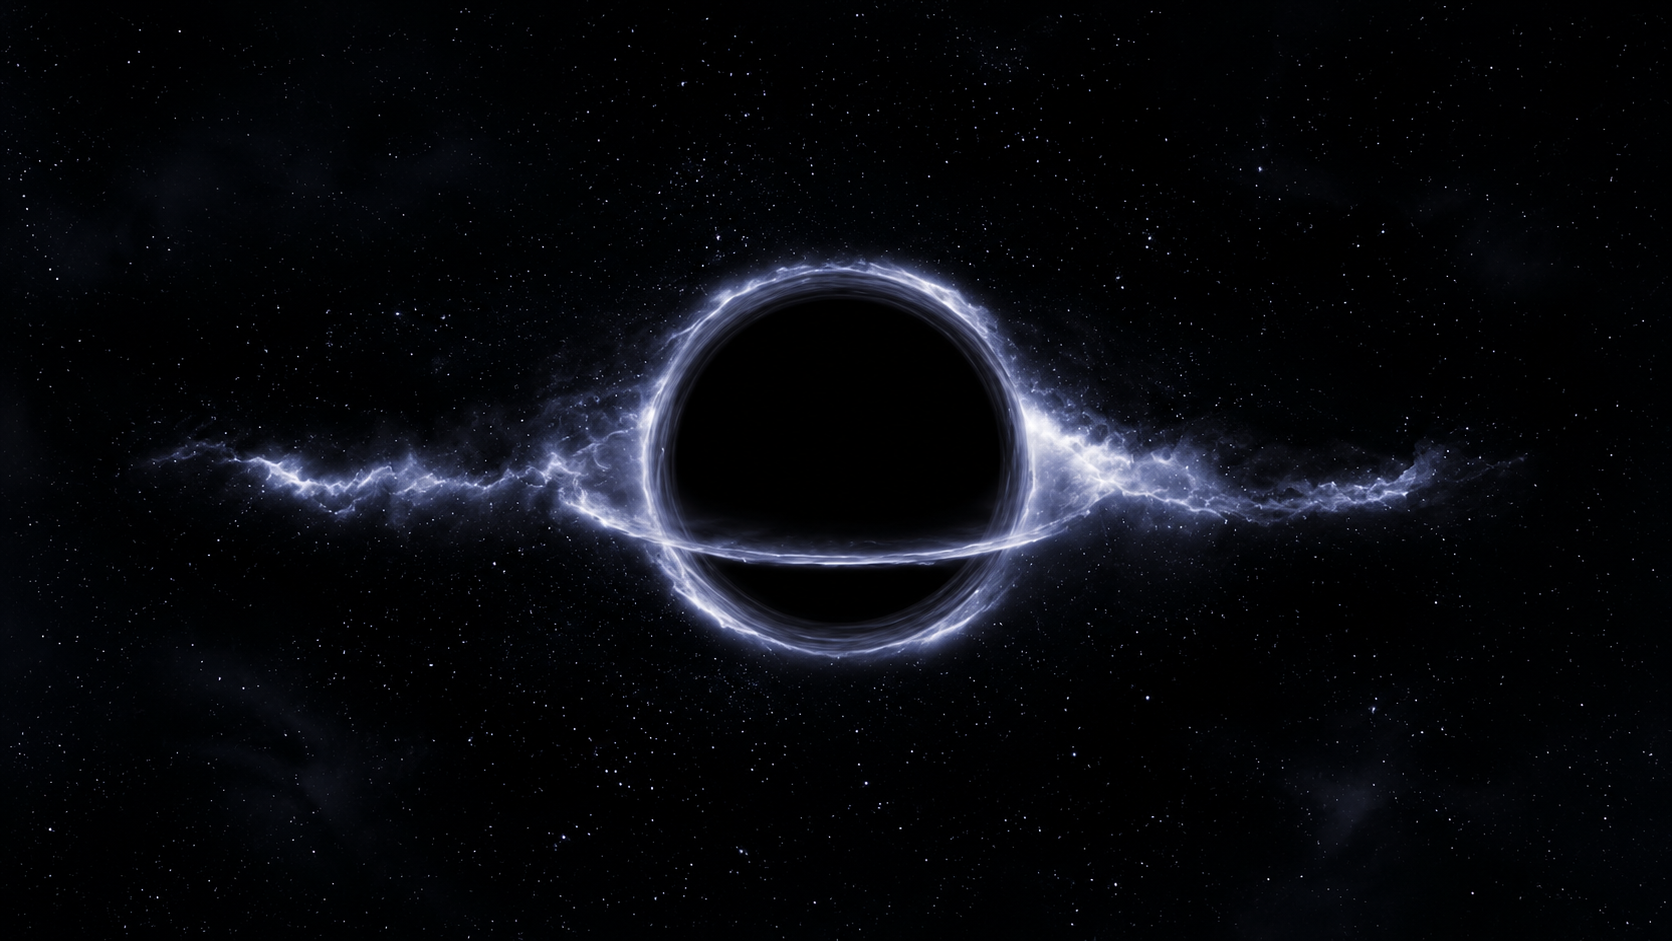
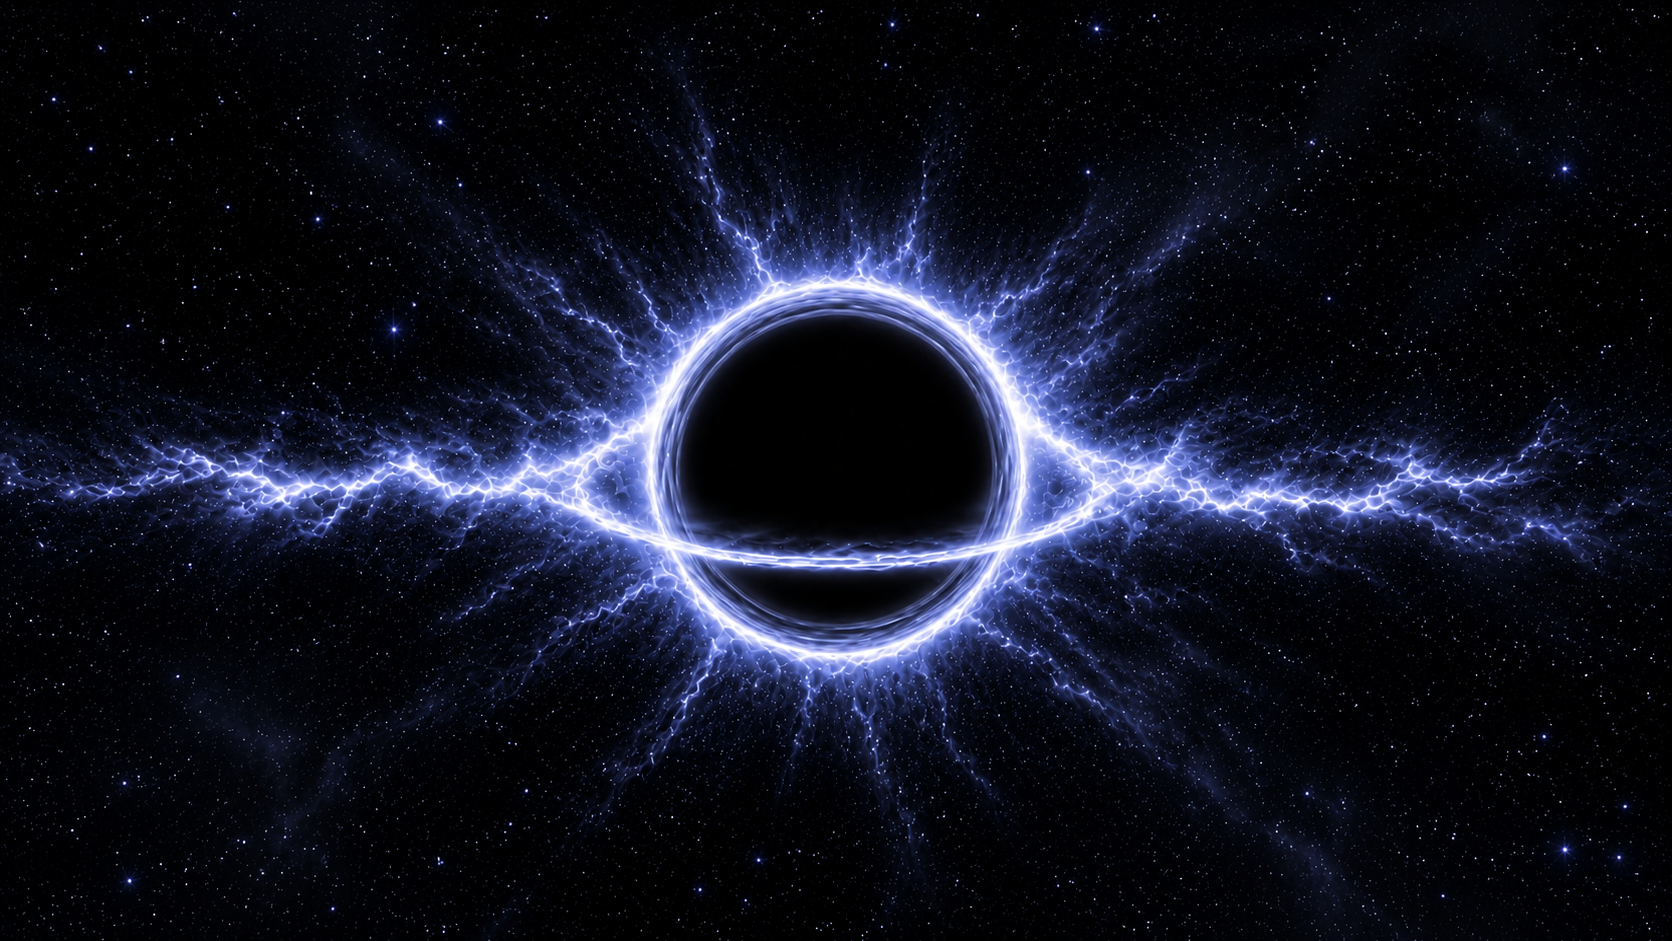
bg melhorado

diff --git a/src/renderer/src/components/ParticlesEffect/index.jsx b/src/renderer/src/components/ParticlesEffect/index.jsx
@@ -35,10 +35,9 @@ export function ParticlesEffect() {
 
   useEffect(() => {
     const container = containerRef.current;
-    // 🔥 NÃO bloqueia mais a criação da cena se analyser for nulo
     if (!container) return;
 
-    // ----- 1. SETUP THREE.JS (partículas 3D de fundo) -----
+    // ========== 1. CENA DE PARTÍCULAS 3D ==========
     const scene = new THREE.Scene();
     const camera = new THREE.PerspectiveCamera(
       75,
@@ -52,15 +51,16 @@ export function ParticlesEffect() {
     renderer.setSize(container.clientWidth, container.clientHeight);
     renderer.setPixelRatio(Math.min(window.devicePixelRatio, 2));
     renderer.setClearColor(0x000000, 0);
-    container.innerHTML = "";
+    renderer.domElement.style.position = "absolute";
+    renderer.domElement.style.top = "0";
+    renderer.domElement.style.left = "0";
+    renderer.domElement.style.zIndex = "1";
     container.appendChild(renderer.domElement);
 
-    // Partículas (4000 pontos)
     const COUNT = 4000;
     const geometry = new THREE.BufferGeometry();
     const positions = new Float32Array(COUNT * 3);
     const basePositions = new Float32Array(COUNT * 3);
-
     for (let i = 0; i < COUNT; i++) {
       const i3 = i * 3;
       positions[i3] = basePositions[i3] = (Math.random() - 0.5) * 25;
@@ -68,7 +68,6 @@ export function ParticlesEffect() {
       positions[i3 + 2] = basePositions[i3 + 2] = Math.random() * -100;
     }
     geometry.setAttribute("position", new THREE.BufferAttribute(positions, 3));
-
     const particleMaterial = new THREE.PointsMaterial({
       color: 0xffffff,
       size: 0.25,
@@ -76,12 +75,11 @@ export function ParticlesEffect() {
       transparent: true,
       blending: THREE.AdditiveBlending,
       depthWrite: false,
-      opacity: 1,
     });
     const particles = new THREE.Points(geometry, particleMaterial);
     scene.add(particles);
 
-    // ----- 2. LÓGICA DE ÁUDIO – AGORA PROTEGIDA -----
+    // ========== 2. ÁUDIO + DETECTOR DE BATIDAS ==========
     const analyser = analyserRef.current;
     let dataArray = null;
     if (analyser) {
@@ -89,8 +87,14 @@ export function ParticlesEffect() {
       dataArray = new Uint8Array(analyser.frequencyBinCount);
     }
     let smoothedBass = 0;
+    let smoothedMid = 0;
+    let lastMidDiff = 0;        // Guarda a diferença do frame anterior
+    let beatThreshold = 0.12;   // Limiar ajustável (sensibilidade da batida)
 
-    // ----- 3. OVERLAY 2D (círculo + barras radiais) -----
+    const waves = [];
+    let lastWaveSpawn = 0;
+
+    // ========== 3. OVERLAY 2D ==========
     const overlayCanvas = overlayCanvasRef.current;
     const ctx = overlayCanvas.getContext("2d");
     overlayCanvas.style.position = "absolute";
@@ -99,7 +103,7 @@ export function ParticlesEffect() {
     overlayCanvas.style.width = "100%";
     overlayCanvas.style.height = "100%";
     overlayCanvas.style.pointerEvents = "none";
-    container.style.position = "relative";
+    overlayCanvas.style.zIndex = "2";
     container.appendChild(overlayCanvas);
 
     const BAR_COUNT = 200;
@@ -117,24 +121,40 @@ export function ParticlesEffect() {
     const resizeObserver = new ResizeObserver(resizeOverlay);
     resizeObserver.observe(container);
 
-    // ----- 4. LOOP DE ANIMAÇÃO (seguro) -----
-    let threeAnimationId;
+    // ========== 4. LOOP DE ANIMAÇÃO ==========
+    let animationId;
 
     const animate = () => {
-      threeAnimationId = requestAnimationFrame(animate);
+      animationId = requestAnimationFrame(animate);
 
-      // --- Atualiza o grave suavizado (se houver analyser) ---
+      // Processa áudio
       let bass = 0;
+      let mid = 0;
       if (analyser && dataArray) {
         analyser.getByteFrequencyData(dataArray);
+        // Graves (0-39)
         for (let i = 0; i < 40; i++) bass += dataArray[i];
         bass = bass / 40 / 255;
+        // Médios (faixa que contém batidas de caixa e ataque de kicks médios)
+        let midCount = 0;
+        for (let i = 30; i <= 80 && i < dataArray.length; i++) {
+          mid += dataArray[i];
+          midCount++;
+        }
+        mid = mid / midCount / 255;
       }
       smoothedBass = smoothedBass * 0.82 + bass * 0.18;
+      smoothedMid = smoothedMid * 0.85 + mid * 0.15;
+
+      // --- DETECTOR DE BATIDAS (diferença brusca) ---
+      const midDiff = mid - smoothedMid;        // diferença entre o atual e o suavizado
+      const isBeat = (midDiff > beatThreshold && midDiff > lastMidDiff * 0.8);
+      lastMidDiff = midDiff;
+
       const force = smoothedBass * 5;
       const time = performance.now() * 0.001;
 
-      // --- Atualiza as partículas 3D (sempre rodam, mas com força do áudio) ---
+      // --- Partículas 3D (mantido) ---
       const posAttr = geometry.attributes.position.array;
       for (let i = 0; i < COUNT; i++) {
         const i3 = i * 3;
@@ -144,14 +164,12 @@ export function ParticlesEffect() {
         posAttr[i3 + 1] = basePositions[i3 + 1] + Math.cos(time + i * 0.06) * force;
       }
       geometry.attributes.position.needsUpdate = true;
-
       particleMaterial.size = 0.15 + smoothedBass * 0.2;
       particleMaterial.opacity = 0.5 + smoothedBass * 1.5;
       camera.position.z = 5 - smoothedBass * 0.7;
-
       renderer.render(scene, camera);
 
-      // --- Desenha o overlay 2D (sempre desenha, mas com dados do áudio ou zero) ---
+      // --- Desenho do overlay ---
       const w = overlayCanvas.width;
       const h = overlayCanvas.height;
       const centerX = w / 2;
@@ -160,19 +178,84 @@ export function ParticlesEffect() {
 
       ctx.clearRect(0, 0, w, h);
 
-      // Círculo com pulso (usa smoothedBass, que pode ser 0 se não houver áudio)
-      const circleScale = 1 + smoothedBass * 0.3;
-      const circleRadius = circleBaseRadius * circleScale;
+      // ========== SPAWN DE ONDAS (SOMENTE NAS BATIDAS) ==========
+      const now = performance.now();
+      if (isBeat) {
+        // Usa a intensidade da batida (midDiff) para modular os parâmetros
+        const beatStrength = Math.min(0.8, midDiff * 1.5);
+        // Evita spawn excessivo com um cooldown mínimo de 100ms
+        if (now - lastWaveSpawn > 100) {
+          waves.push({
+            r: circleBaseRadius,
+            opacity: 0.8 + beatStrength * 0.3,
+            speed: 1.5 + beatStrength * 4,
+            bass: beatStrength,      // guarda a força da batida
+            seed: Math.random() * 100,
+          });
+          lastWaveSpawn = now;
+        }
+      }
 
-      // Anéis decorativos (sempre desenha)
+      // ========== DESENHO DAS ONDAS (mesmo estilo, usando a força da batida) ==========
+      ctx.globalCompositeOperation = "lighter";
+
+      for (let i = waves.length - 1; i >= 0; i--) {
+        const wave = waves[i];
+        wave.r += wave.speed;
+        wave.opacity *= 0.94;
+
+        if (wave.opacity < 0.015) {
+          waves.splice(i, 1);
+          continue;
+        }
+
+        const maxR = circleBaseRadius * 4;
+        const progress = (wave.r - circleBaseRadius) / (maxR - circleBaseRadius);
+        const alpha = wave.opacity * (1 - progress * 0.5);
+
+        ctx.beginPath();
+        const points = 80;
+        for (let j = 0; j <= points; j++) {
+          const angle = (j / points) * Math.PI * 2;
+          const noise =
+            Math.sin(angle * 7 + time * 4 + wave.seed) * (18 * wave.bass) +
+            Math.cos(angle * 4 - time * 2 + wave.seed) * (8 * (1 - progress));
+          const currentRadius = wave.r + noise;
+          const x = centerX + Math.cos(angle) * currentRadius;
+          const y = centerY + Math.sin(angle) * currentRadius;
+          if (j === 0) ctx.moveTo(x, y);
+          else ctx.lineTo(x, y);
+        }
+        ctx.closePath();
+
+        const thickness = (25 + wave.bass * 40) * (1 - progress);
+        ctx.lineWidth = thickness;
+        ctx.strokeStyle = `rgba(100, 150, 255, ${alpha * 0.15})`;
+        ctx.shadowBlur = 40;
+        ctx.shadowColor = `rgba(140, 200, 255, ${alpha})`;
+        ctx.stroke();
+
+        ctx.lineWidth = 2 + wave.bass * 6;
+        ctx.strokeStyle = `rgba(220, 240, 255, ${alpha * 0.8})`;
+        ctx.shadowBlur = 15;
+        ctx.shadowColor = "#ffffff";
+        ctx.stroke();
+      }
+
+      ctx.globalCompositeOperation = "source-over";
+      ctx.shadowBlur = 0;
+
+      // ========== ANÉIS DECORATIVOS (reações aos graves, mantido) ==========
       for (let j = 0; j < 4; j++) {
         ctx.beginPath();
         const points = 120;
         for (let i = 0; i <= points; i++) {
           const a = (i / points) * Math.PI * 2;
-          const noise = Math.sin(a * 6 + time * 1.5 + j) * 8 +
-                        Math.cos(a * 4 - time * 1.2 + j) * 6;
-          const radius = circleRadius * (0.55 + j * 0.12) + noise + smoothedBass * 18;
+          const noise =
+            Math.sin(a * 6 + time * 1.5 + j) * 8 +
+            Math.cos(a * 4 - time * 1.2 + j) * 6;
+          const radius =
+            circleBaseRadius * (0.55 + j * 0.12) + noise + smoothedBass * 18;
           const x = centerX + Math.cos(a) * radius;
           const y = centerY + Math.sin(a) * radius;
           if (i === 0) ctx.moveTo(x, y);
@@ -186,35 +269,41 @@ export function ParticlesEffect() {
         ctx.stroke();
       }
 
-      // Gradiente do núcleo
-      const coreGradient = ctx.createRadialGradient(centerX, centerY, 0, centerX, centerY, circleRadius);
+      // ========== ESFERA CENTRAL ==========
+      const coreGradient = ctx.createRadialGradient(
+        centerX,
+        centerY,
+        0,
+        centerX,
+        centerY,
+        circleBaseRadius,
+      );
       coreGradient.addColorStop(0, "rgba(255,255,255,1)");
       coreGradient.addColorStop(0.1, "rgba(255,255,255,0.95)");
       coreGradient.addColorStop(0.25, "rgba(180,220,255,0.9)");
       coreGradient.addColorStop(0.5, "rgba(100,140,255,0.3)");
       coreGradient.addColorStop(1, "rgba(0,0,0,0)");
       ctx.beginPath();
-      ctx.arc(centerX, centerY, circleRadius * 0.7, 0, Math.PI * 2);
+      ctx.arc(centerX, centerY, circleBaseRadius * 0.7, 0, Math.PI * 2);
       ctx.fillStyle = coreGradient;
       ctx.fill();
 
-      // Barras radiais (protegidas: se não houver dataArray, usa smoothedHeights zerados)
+      // ========== BARRAS RADIAIS ==========
       ctx.shadowBlur = 12;
-      ctx.shadowColor = '#ffffffff';
+      ctx.shadowColor = "#ffffffff";
       for (let i = 0; i < BAR_COUNT; i++) {
         let targetHeight = 0;
         if (dataArray) {
           const freqIndex = Math.floor((i / BAR_COUNT) * maxFreqIndex);
-          const rawValue = dataArray[freqIndex] || 0;
-          targetHeight = (rawValue / 255) * 40;
+          targetHeight = ((dataArray[freqIndex] || 0) / 255) * 40;
         }
-        smoothedHeights[i] = smoothedHeights[i] * smoothing + targetHeight * (1 - smoothing);
+        smoothedHeights[i] =
+          smoothedHeights[i] * smoothing + targetHeight * (1 - smoothing);
         const barHeight = Math.max(4, smoothedHeights[i]);
 
         const angle = (i / BAR_COUNT) * Math.PI * 2 - Math.PI / 2;
         const innerR = circleBaseRadius + 10;
         const outerR = innerR + barHeight;
-
         const x1 = centerX + Math.cos(angle) * innerR;
         const y1 = centerY + Math.sin(angle) * innerR;
         const x2 = centerX + Math.cos(angle) * outerR;
@@ -223,7 +312,7 @@ export function ParticlesEffect() {
         ctx.beginPath();
         ctx.lineWidth = Math.max(2, (w / BAR_COUNT) * 0.8);
         ctx.lineCap = "butt";
-        ctx.strokeStyle = '#ffffff';
+        ctx.strokeStyle = "#ffffff";
         ctx.moveTo(x1, y1);
         ctx.lineTo(x2, y2);
         ctx.stroke();
@@ -233,7 +322,7 @@ export function ParticlesEffect() {
 
     animate();
 
-    // ----- 5. RESIZE E CLEANUP -----
+    // ========== 5. RESIZE E CLEANUP ==========
     const handleResize = () => {
       const width = container.clientWidth;
       const height = container.clientHeight;
@@ -245,15 +334,16 @@ export function ParticlesEffect() {
     window.addEventListener("resize", handleResize);
 
     return () => {
-      cancelAnimationFrame(threeAnimationId);
+      cancelAnimationFrame(animationId);
       window.removeEventListener("resize", handleResize);
       resizeObserver.disconnect();
       geometry.dispose();
       particleMaterial.dispose();
       renderer.dispose();
-      if (overlayCanvas.parentNode) overlayCanvas.parentNode.removeChild(overlayCanvas);
+      if (overlayCanvas.parentNode)
+        overlayCanvas.parentNode.removeChild(overlayCanvas);
     };
-  }, [analyserRef]); // dependência mantida, mas a cena é criada mesmo sem analyser
+  }, [analyserRef]);
 
   return (
     <div className={styles.particlesEffectContainer} ref={containerRef}>

diff --git a/src/renderer/src/components/ParticlesEffect/style.module.css b/src/renderer/src/components/ParticlesEffect/style.module.css
@@ -10,6 +10,8 @@
   background-size: cover;
   background-position: center;
 }
+
+
 .particlesEffectContainer canvas {
   display: block;
   width: 100% !important;